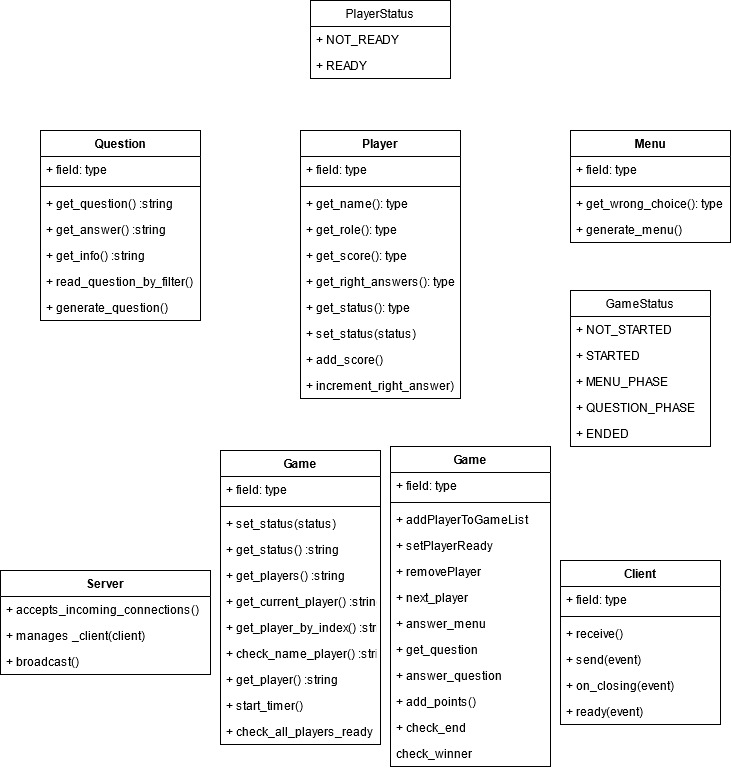
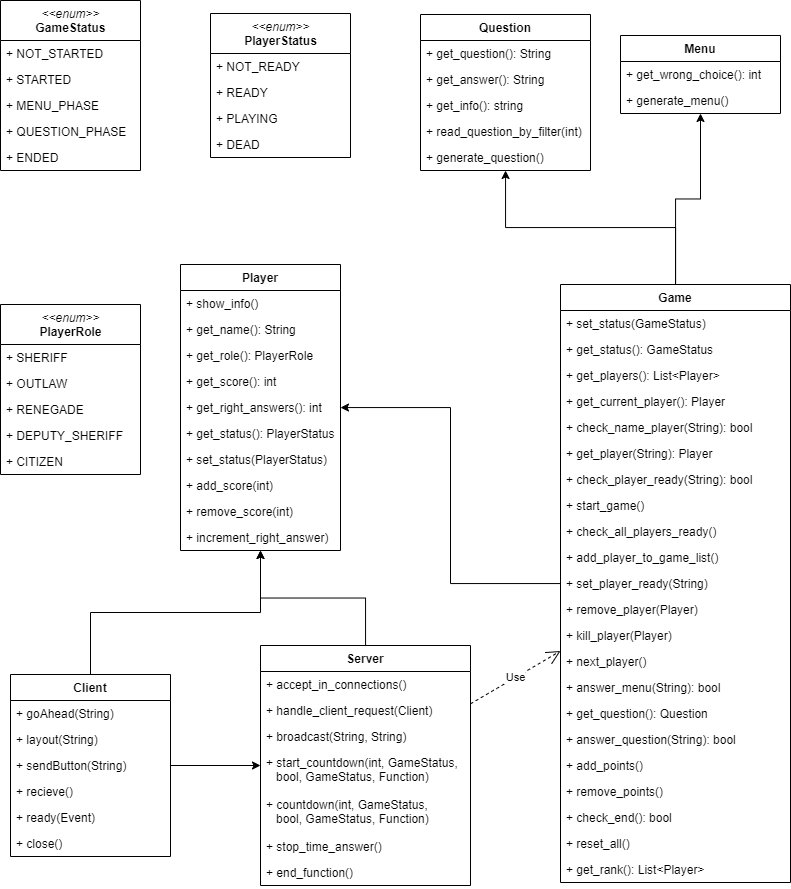
update uml and fix methods names

diff --git a/src/Game/game.py b/src/Game/game.py
@@ -68,7 +68,7 @@ class Game:
 
     """ Controlla che tutti i giocatori siano pronti
         Se sono tutti pronti viene cambiato lo stato dei giocatori e del gioco """
-    def _check_all_players_ready(self):
+    def check_all_players_ready(self):
         if len(self.playerList) == 1:
             self.gameStatus = GameStatus.NOT_STARTED  #non si può giocare da soli
             return
@@ -83,21 +83,21 @@ class Game:
             player.set_status(PlayerStatus.PLAYING)
 
     """ Aggiunta di un giocatore alla lista dei giocatori """ 
-    def addPlayerToGameList(self, name):
+    def add_player_to_game_list(self, name):
         self.playerList.append(Player(name, PlayerRole(len(self.playerList) % 4)))
 
     """ Imposto lo stato del giocatore come pronto""" 
-    def setPlayerReady(self, name):
+    def set_player_ready(self, name):
         self.get_player(name).set_status(PlayerStatus.READY)
-        self._check_all_players_ready()
+        self.check_all_players_ready()
 
     """ Rimuovo il numero di giocatori """ 
-    def removePlayer(self, player):
+    def remove_player(self, player):
         print("Removing %s" %player.get_name())
         self.playerList.remove(player)
     
     """ Imposto lo stato del giocatore come Dead """ 
-    def killPlayer(self, player):
+    def kill_player(self, player):
         player.set_status(PlayerStatus.DEAD)
         print("%s died" %player.get_name())
 
@@ -146,15 +146,6 @@ class Game:
             self.gameStatus = GameStatus.ENDED
             return True
         return False
-
-    """  Restituisco il giocatore vincente """ 
-    def check_winner(self): # unused
-        winner = ""
-        for player in self.get_rank():
-            if player.get_status() == PlayerStatus.PLAYING:
-                winner = player.get_name()
-        self.gameStatus = GameStatus.ENDED
-        return winner
 
     """  Reimposto lo stato dei giocatori e del gioca allo stato iniziale""" 
     def reset_all(self):

diff --git a/src/chat_server.py b/src/chat_server.py
@@ -50,7 +50,7 @@ def handle_client_request(client):  # Prende il socket del client come argomento
         client.close()
         return
 
-    game.addPlayerToGameList(nome)
+    game.add_player_to_game_list(nome)
 
     # BENVENUTO
     if len(game.get_players()) > 1:
@@ -92,7 +92,7 @@ def handle_client_request(client):  # Prende il socket del client come argomento
             client.send('Ti sei già dichiarato pronto'.encode())
         # START
         elif msg == START and gameStatus != GameStatus.STARTED:
-            game.setPlayerReady(nome)
+            game.set_player_ready(nome)
             broadcast("Il giocatore %s è pronto" % nome)
             # Se i giocatori sono tutti pronti parte il gioco
             if game.get_status() == GameStatus.STARTED:
@@ -136,7 +136,7 @@ def handle_client_request(client):  # Prende il socket del client come argomento
                             else:
                                 broadcast("%s è entrato nella porta sbagliata!." % nome)
                                 game.next_player()
-                                game.killPlayer(game.get_player(currentPlayer))
+                                game.kill_player(game.get_player(currentPlayer))
                                 # se non rimane solo un giocatore il gioco termina
                                 if game.check_end():
                                     game.set_status(GameStatus.ENDED)

diff --git a/src/Player/player.py b/src/Player/player.py
@@ -19,7 +19,7 @@ class Player :
         self.status = status
 
     """ Stampo tutte le informazioni del giocatore """        
-    def showInfo(self):
+    def show_info(self):
         print ("Nome: ", self.name)
         print ("Ruolo: ", self.role)
         print ("Punteggio: ", self.score)
